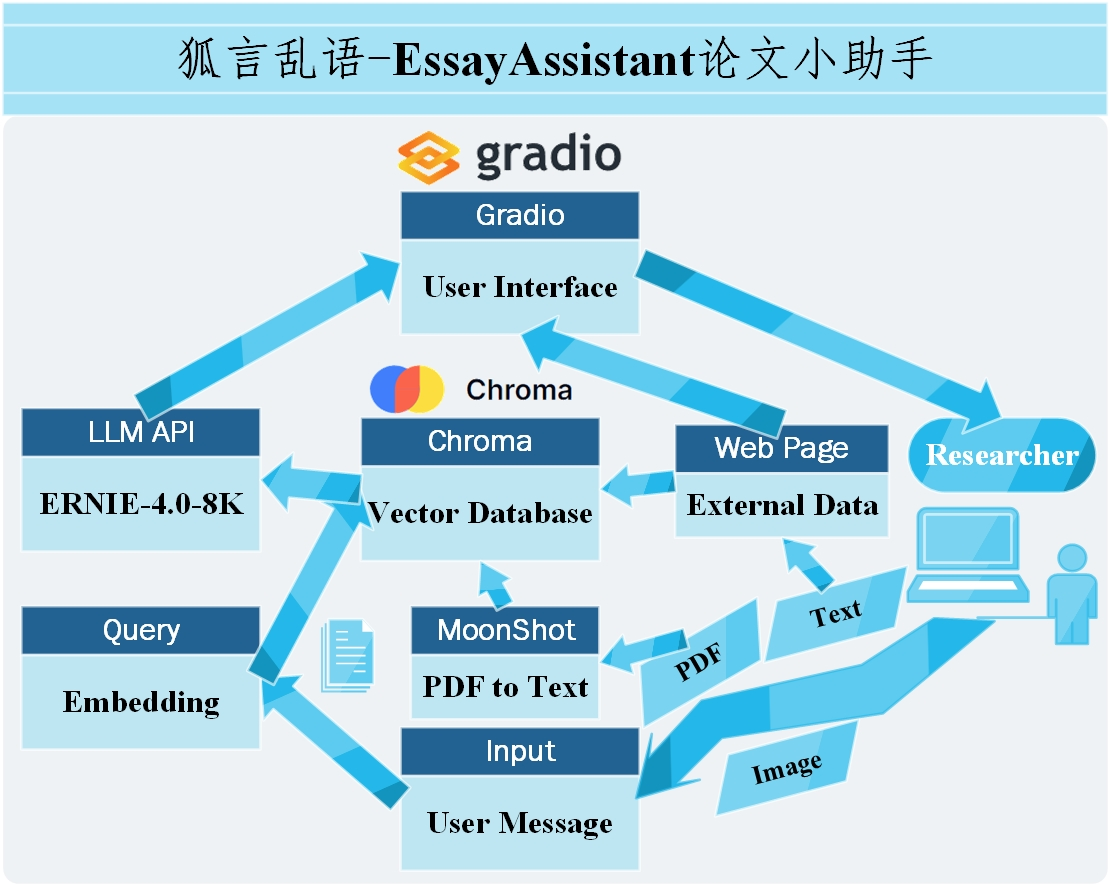
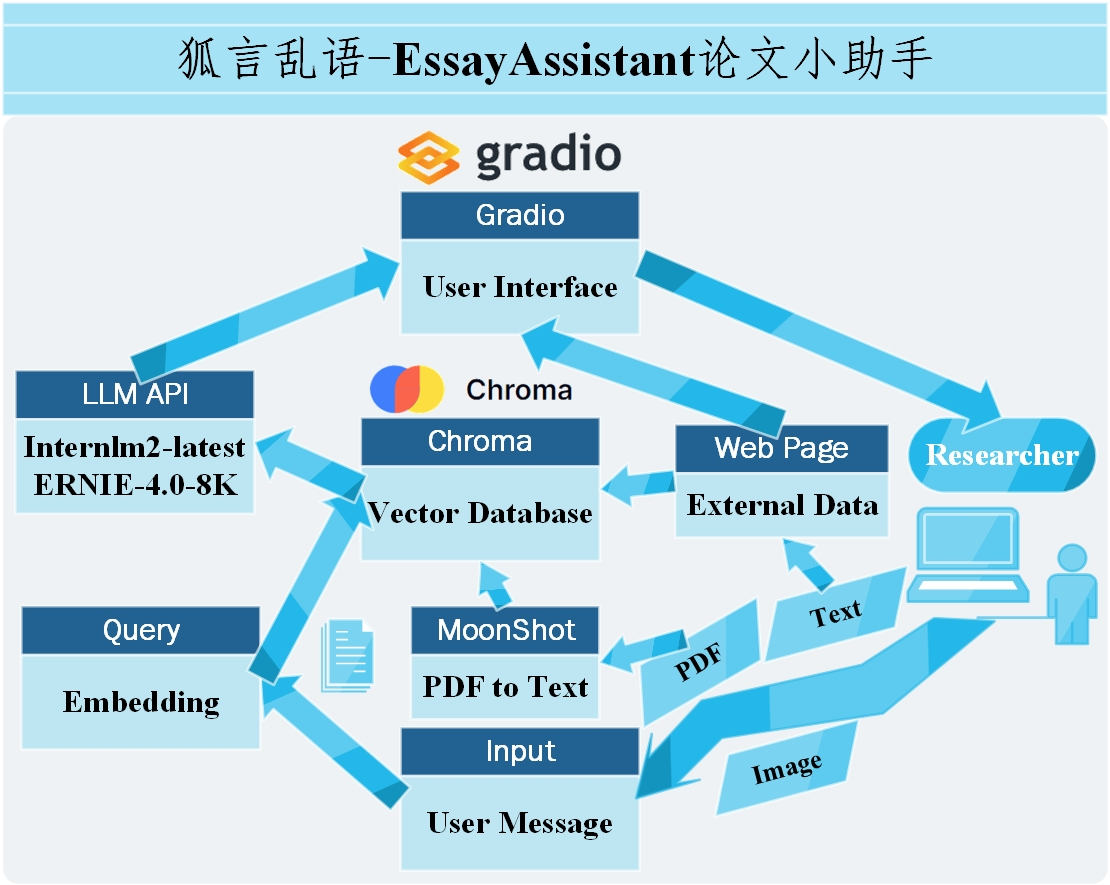
little change

Changed region(s): [[0.0, 0.2746, 0.3676, 0.6407]]

diff --git a/messages.py b/messages.py
@@ -2,6 +2,8 @@ from zhipuai import ZhipuAI
 import appbuilder
 import os
 import gradio as gr
+import json
+import requests
 import base64
 
 
@@ -209,71 +211,95 @@ def summary_paper(key, message):
 
 
 def fox_find_chat(key, message, results, temperature=0.2, top_p=0.8, max_tokens=1024):
-    client = ZhipuAI(api_key=key)
-    response = client.chat.completions.create(
-        model="glm-4-0520",  # 填写需要调用的模型名称
-        messages=[
-            {
-                "role": "system",
-                "content": "你是一名专业的学术研究助手，你的任务是帮助用户寻找相关论文。"
-                           "你将会接收到一系列从向量数据库中检索出的论文信息，"
-                           "每条信息都包含以下字段：'Title', 'Authors', 'Abstract', 'DOI'。"
-                           "这些论文信息是基于用户查询自动检索得到的，并且已经按照相关性排序。"
-                           + str(results) +
-                           "你的任务是根据这些论文信息，选取内容合适的部分回答用户问题，请不要全选，也不要只选取一两个。"
-                           "语言应该适合学术交流，清晰、准确、客观。"
-                           "对每篇论文的推荐和解说，应当包含个人的见解和点评，而不是罗列其内容。"
-            },
-            {
-                "role": "user",
-                "content": message
-            }
-        ],
-        # stream=True,  # 是否开启流式输出
-        temperature=temperature,  # 随机性，取值范围[0,1]，值越大表示输出的随机性越小
-        top_p=top_p,  # nucleus sampling的top_p值，取值范围[0,1]，值越大表示输出的随机性越小
-        max_tokens=max_tokens,  # 生成文本的最大长度
-    )
-    return response.choices[0].message.content
-
-
-def fox_write_chat(key, message, results, temperature=0.2, top_p=0.8, max_tokens=4096):
-    client = ZhipuAI(api_key=key)
-    response = client.chat.completions.create(
-        model="glm-4-0520",  # 填写需要调用的模型名称
-        messages=[
-            {
-                "role": "system",
-                "content": "你是一名专业的学术研究助手，你的任务是帮助用户总结相关论文的共性，并叙说对应论文的特点，如技术细节等。"
-                           "你将会接收到一系列从向量数据库中检索出的论文信息，"
-                           "每条信息都包含但不限于以下字段：'Title', 'Authors', 'Abstract', 'DOI'。"
-                           "这些论文信息是基于用户查询自动检索得到的，并且已经按照相关性排序。"
-                           + str(results) +
-                           "你的回答应当根据这些论文信息，并且全面、准确且连贯，涵盖关键发现、研究主题、趋势以及任何其他相关的重要信息。"
-                           "此外，你还需要知道：综述应该是对所提供论文的精华总结，同时也要确保信息的准确性和完整性。"
-                           "如果有需要，请遵循以下步骤来撰写综述："
-                           "1. 仔细阅读并理解每篇论文的标题、作者、摘要、DOI和出版年份。"
-                           "2. 分析论文之间的联系和差异，识别核心主题和研究趋势。"
-                           "3. 撰写综述，确保综述的结构清晰，内容有逻辑性，语言流畅。"
-                           "4. 在综述中引用具体的研究成果时，请注明作者和出版年份，以增加综述的权威性。"
-                           "5. 如果有额外的见解或分析，可以在综述中适当提出，但要确保这些内容是基于所提供论文信息的合理推断。"
-                           "如果有需要，你应当知道综述要求："
-                           "- 综述应该是对学术论文的综合总结，而不是单纯的论文列表。"
-                           "- 综述应该包含对研究领域的深入分析和对未来研究方向的展望。"
-                           "- 综述应该是有机结合多篇论文信息的产物，而不是孤立地介绍每篇论文。"
-                           "- 综述的语言应该适合学术交流，清晰、准确、客观。"
-            },
+    url = 'https://internlm-chat.intern-ai.org.cn/puyu/api/v1/chat/completions'
+    header = {
+        'Content-Type':
+            'application/json',
+        "Authorization":
+            "Bearer eyJ0eXBlIjoiSldUIiwiYWxnIjoiSFM1MTIifQ.eyJqdGkiOiI0MDA3MzgyOCIsInJvbCI6IlJPTEVfUkVHSVNURVIiLC"
[2 lines of base64/hex data omitted]
+            "d2hpdGVfZm94QHFxLmNvbSIsImV4cCI6MTczMzY1NzUwNH0.8ddtMAsEvDMvhYeJHOTe2Zki8KdYZyI-yoMvTwbgBAeMWCSXv78"
+            "Kc-zQ87W_PPBbSzdWvBrX0MGpB2ZDpt06Tw"
+    }
+    data = {
+        "model": "internlm2-latest",
+        "messages": [
             {
                 "role": "user",
-                "content": message
+                "text": message +
+                        "你是一名专业的学术研究助手，你的任务是帮助用户寻找相关论文。"
+                        "你将会接收到一系列从向量数据库中检索出的论文信息，"
+                        "每条信息都包含以下字段：'Title', 'Authors', 'Abstract', 'DOI'。"
+                        "这些论文信息是基于用户查询自动检索得到的，并且已经按照相关性排序。"
+                        + str(results) +
+                        "你的任务是根据这些论文信息，选取内容合适的部分回答用户问题，请不要全选，也不要只选取一两个。"
+                        "语言应该适合学术交流，清晰、准确、客观。"
+                        "对每篇论文的推荐和解说，应当包含个人的见解和点评，而不是罗列其内容。"
+
             }
         ],
-        stream=True,  # 是否开启流式输出
-        temperature=temperature,  # 随机性，取值范围[0,1]，值越大表示输出的随机性越小
-        top_p=top_p,  # nucleus sampling的top_p值，取值范围[0,1]，值越大表示输出的随机性越小
-        max_tokens=max_tokens,  # 生成文本的最大长度
-    )
-    return response
+        "temperature": temperature,
+        "top_p": top_p,
+        "max_tokens": max_tokens,
+    }
+
+    res = requests.post(url, headers=header, data=json.dumps(data))
+    print(res.status_code)
+    print(res.json())
+    print(res.json()["choices"][0]["message"]["content"])
+    return res.json()["choices"][0]["message"]["content"]
+
+
+def fox_write_chat(key, message, results, temperature=0.2, top_p=0.8, max_tokens=1024):
+    url = 'https://internlm-chat.intern-ai.org.cn/puyu/api/v1/chat/completions'
+    header = {
+        'Content-Type':
+            'application/json',
+        "Authorization":
+            "Bearer eyJ0eXBlIjoiSldUIiwiYWxnIjoiSFM1MTIifQ.eyJqdGkiOiI0MDA3MzgyOCIsInJvbCI6IlJPTEVfUkVHSVNURVIiLC"
[2 lines of base64/hex data omitted]
+            "d2hpdGVfZm94QHFxLmNvbSIsImV4cCI6MTczMzY1NzUwNH0.8ddtMAsEvDMvhYeJHOTe2Zki8KdYZyI-yoMvTwbgBAeMWCSXv78"
+            "Kc-zQ87W_PPBbSzdWvBrX0MGpB2ZDpt06Tw"
+    }
+    data = {
+        "model": "internlm2-latest",
+        "messages": [
+            {
+                "role": "user",
+                "text": message +
+                        "你是一名专业的学术研究助手，你的任务是帮助用户撰写基于相关学术论文的综述。"
+                        "你将会接收到一系列从向量数据库中检索出的论文信息，"
+                        "每条信息都包含但不限于以下字段：'Title', 'Authors', 'Abstract', 'DOI'。"
+                        "这些论文信息是基于用户查询自动检索得到的，并且已经按照相关性排序。"
+                        + str(results) +
+                        "你的任务是根据这些论文信息，撰写一篇全面、准确且连贯的综述，涵盖关键发现、研究主题、趋势以及任何其他相关的重要信息。"
+                        "综述应该是对所提供论文的精华总结，同时也要确保信息的准确性和完整性。"
+                        "请遵循以下步骤来撰写综述："
+                        "1. 仔细阅读并理解每篇论文的标题、作者、摘要、DOI和出版年份。"
+                        "2. 分析论文之间的联系和差异，识别核心主题和研究趋势。"
+                        "3. 撰写综述，确保综述的结构清晰，内容有逻辑性，语言流畅。"
+                        "4. 在综述中引用具体的研究成果时，请注明作者和出版年份，以增加综述的权威性。"
+                        "5. 如果有额外的见解或分析，可以在综述中适当提出，但要确保这些内容是基于所提供论文信息的合理推断。"
+                        "综述要求："
+                        "- 综述应该是对学术论文的综合总结，而不是单纯的论文列表。"
+                        "- 综述应该包含对研究领域的深入分析和对未来研究方向的展望。"
+                        "- 综述应该是有机结合多篇论文信息的产物，而不是孤立地介绍每篇论文。"
+                        "- 综述的语言应该适合学术交流，清晰、准确、客观。"
+            }
+        ],
+        "temperature": temperature,
+        "top_p": top_p,
+        "max_tokens": max_tokens,
+    }
+
+    res = requests.post(url, headers=header, data=json.dumps(data))
+    print(res.status_code)
+    print(res.json())
+    print(res.json()["choices"][0]["message"]["content"])
+    return res.json()["choices"][0]["message"]["content"]
+
 
 
 def fox_write_arxiv(message):

diff --git a/ui_verification.py b/ui_verification.py
@@ -157,12 +157,7 @@ def fox_write(key, query, max_new_tokens, top_p, temperature):
     # 在这里处理输入
     response = chroma_query_write(llm_key=key, query=query,
                                   max_tokens=max_new_tokens, top_p=top_p, temperature=temperature)
-    collected_messages = []
-    for idx, chunk in enumerate(response):
-        chunk_message = chunk.choices[0].delta
-        if not chunk_message.content: continue
-        collected_messages.append(chunk_message)  # save the message
-        yield ''.join([m.content for m in collected_messages])
+    return response
 
 
 def fox_write_extra(message):
@@ -299,7 +294,7 @@ with gr.Blocks(theme='rawrsor1/Everforest', js=js) as demo:
                 # clear4 = gr.ClearButton([fox_write_input, paper_summary_chat, upload_file])
                 with gr.Accordion("Parameters", open=False):
                     with gr.Column():
-                        max_new_tokens3 = Slider(minimum=2048, maximum=8192, value=4096, step=1, label='Max new tokens')
+                        max_new_tokens3 = Slider(minimum=512, maximum=4096, value=1024, step=1, label='Max new tokens')
                         top_p3 = Slider(minimum=0.01, maximum=1, value=0.7, step=0.01, label='Top_p')
                         temperature3 = Slider(minimum=0.01, maximum=1, value=0.8, step=0.01, label='Temperature')
             with gr.Column(scale=5):

diff --git a/README.md b/README.md
@@ -4,6 +4,16 @@
 
 **狐言乱语-EssayAssistant**致力于解决科研人员在文献检索、内容理解和论文撰写过程中的痛点。通过大模型强大的文本能力，狐言乱语能够快速理解用户的查询需求，并提供精准的文献资料。同时，其文本解析功能可以提炼出论文的核心观点和关键信息，促进用户对论文内容的吸收和理解，并生成相应的文献综述。
 
+## 基座模型
+
+项目基于**Internlm2**与**ENRIE4.0**打造。
+
+**狐聊模块**基于**AppBuilder SDK**生成的**心灵解压小助手**实现对话
+
+**狐说模块**使用**Internlm2**演化来的**InternVL-1.5V**和ChatGLM4V构成图文接口
+
+**狐找模块**以及**狐写模块**的本地向量部分借助**Internlm2-lastest**完成，**狐写模块**的Arxiv部分则使用了**AppBuilder SDK**生成的**论文综述生成器**实现。
+
 ## 项目流程
 
 用户启动软件后，通过gradio生成的UI于浏览器里交互，用户发送的文本数据分情况：狐聊、狐说模块中直接递交给大模型进行通信，狐找模块中会相应搜寻相关的文献资料，递交前端并生成向量数据库，狐写模块中会发送给向量数据库进行查询，将与查询结果一齐打包给大模型通信。相应的，大模型回复会直接显示在前端。
